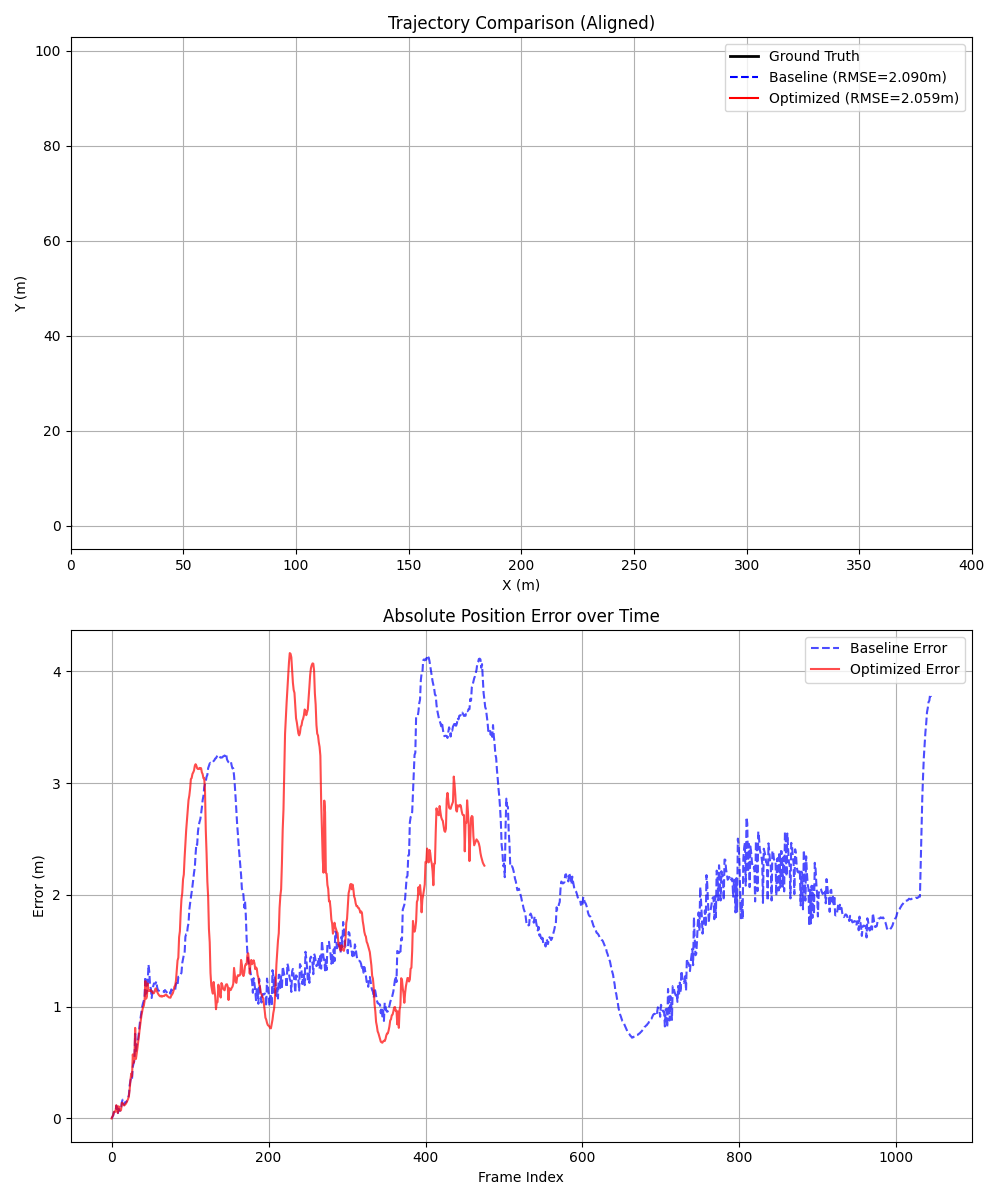
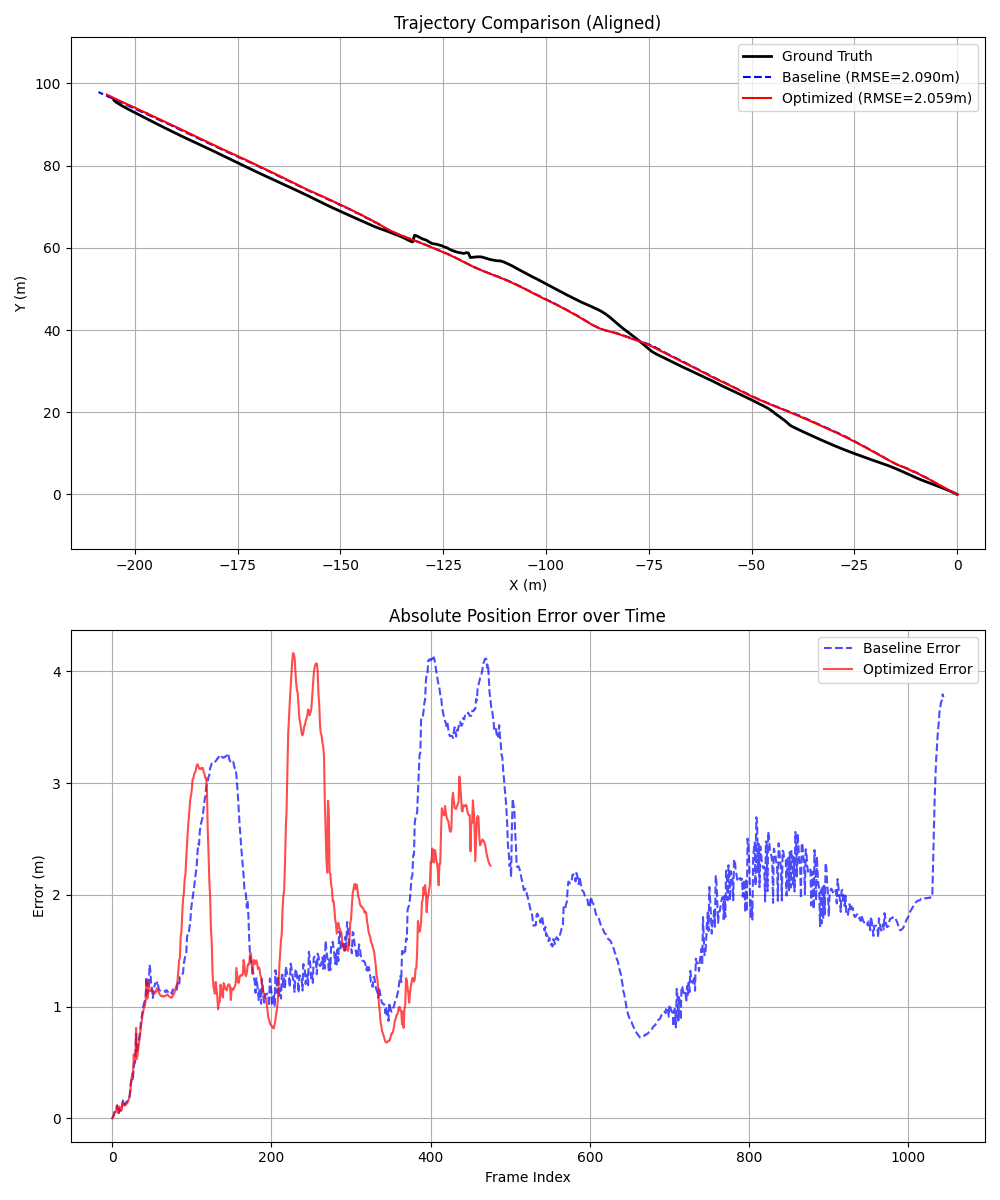
fix: 修复轨迹评估图 X 轴硬编码导致轨迹不可见的问题
- 移除 evaluate_trajectory.py 中的 set_xlim(0, 400)

- 增加 set_aspect('equal') 确保轨迹几何比例正确

- 更新 0019/0020 序列的可视化图表

diff --git a/Scripts/evaluation/evaluate_trajectory.py b/Scripts/evaluation/evaluate_trajectory.py
@@ -191,7 +191,7 @@ def main():
     ax1.set_ylabel("Y (m)")
     ax1.legend()
     ax1.grid(True)
-    ax1.set_xlim(0, 400)
+    ax1.set_aspect('equal', adjustable='datalim') # 确保 XY 比例 1:1，避免轨迹变形
     
     # Bottom: Errors
     if error_base is not None and len(error_base) > 0:
